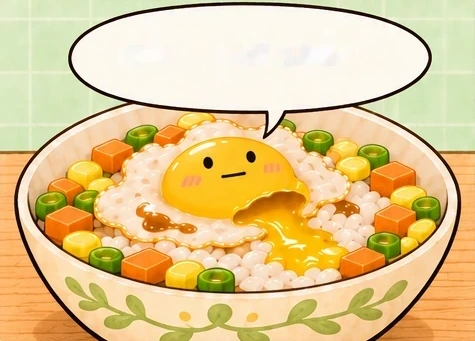
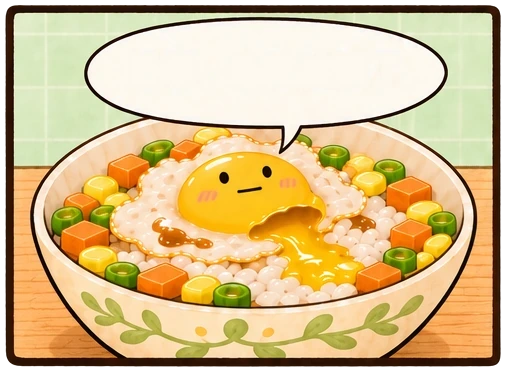
p6e dialogue: new line is a pre-set transparent layer in the same typeface as the other bubbles (no browser font fallback), old text cleared with a flat paper fill (no grey ghosts)

diff --git a/src/app/preview/visual/PanelPerf.tsx b/src/app/preview/visual/PanelPerf.tsx
@@ -318,8 +318,7 @@ export function SaucePanel(props: { p: PanelSlot; pos: Place; dy: number; q: num
 /**
  * 对白分层样板：结尾回答格 p6e "没事，是我拉肚子了。"（只在 punchline 段出现）。
  * 不是打字机：原漫画、气泡轮廓和构图都不动，只把气泡里的旧字清掉（tools/replace_bubble_text.py --clean-only → p6e-clean.webp），
- * 对白换成网页文字，字体、粗细、墨色、字距、位置照原排字（Lantinghei SC Heavy，字高 29 px / 506 px 宽，墨色 rgb(48,19,9)）；
- * 浏览器拿不到 Lantinghei 时回退到苹方 / 冬青黑，用同色描边把笔画加粗到接近原字（不额外下载字体）。
+ * 对白换成透明字层 p6e-text.webp（同一套字形预先排好，不依赖浏览器字体；旧版用网页文字回退苹方加描边，和其它对白字形不一致）。
  * 播放（格子进入并稳定后，按真实时间）：
  *   1. 短暂停顿；
  *   2. 气泡以外的画面轻微降饱和、降对比（底图加 CSS filter）；气泡本身用精确的泡形遮罩（tools/dialogue_layers.py → p6e-bubble.webp，
@@ -330,17 +329,16 @@ export function SaucePanel(props: { p: PanelSlot; pos: Place; dy: number; q: num
  */
 const P3 = "/assets/comic-v3/";
 const P6E_TEXT = "没事，是我拉肚子了。";
-const INK = "48, 19, 9";
 const DIM = { saturate: 0.68, contrast: 0.9, brightness: 1.02 };
 export function DialoguePanel({ p, pos, dy, q, stage, animate }: { p: PanelSlot; pos: Place; dy: number; q: number; stage: Stage; animate: boolean }) {
   const base = useRef<HTMLImageElement>(null);
-  const text = useRef<HTMLDivElement>(null);
+  const text = useRef<HTMLImageElement>(null);
   const tl = useRef<gsap.core.Timeline | null>(null);
   const look = useRef({ dim: 0, ink: 0, show: 0 });
   const apply = () => {
     const { dim, ink, show } = look.current;
     if (base.current) base.current.style.filter = `saturate(${1 - (1 - DIM.saturate) * dim}) contrast(${1 - (1 - DIM.contrast) * dim}) brightness(${1 + (DIM.brightness - 1) * dim})`;
-    if (text.current) { text.current.style.opacity = String(show); text.current.style.color = `rgba(${INK}, ${0.22 + 0.78 * ink})`; }
+    if (text.current) text.current.style.opacity = String(show * (0.22 + 0.78 * ink)); // 字是图层（tools/replace_bubble_text.py --text-layer），淡入就是透明度
   };
   const setLook = (v: { dim: number; ink: number; show: number }) => { look.current = { ...v }; apply(); };
   const reset = () => { tl.current?.kill(); tl.current = null; setLook({ dim: 0, ink: 0, show: 0 }); };
@@ -358,24 +356,16 @@ export function DialoguePanel({ p, pos, dy, q, stage, animate }: { p: PanelSlot;
   if (!animate) return <StaticImg src={p.src!} pos={pos} aspect={p.aspect} dy={dy} />;
   const img = "absolute inset-0 block h-full w-full select-none";
   return (
-    <div className="panel-frame absolute will-change-transform" style={{ ...boxStyle(pos, p.aspect, dy), containerType: "inline-size" }}>
+    <div className="panel-frame absolute will-change-transform" style={{ ...boxStyle(pos, p.aspect, dy) }}>
       {/* eslint-disable-next-line @next/next/no-img-element */}
       <img ref={base} src={`${P3}p6e-clean.webp`} alt="" draggable={false} className={img} />
       {/* 泡本身：同一张图、不加滤镜，只露出泡形遮罩里的部分 */}
       {/* eslint-disable-next-line @next/next/no-img-element */}
       <img src={`${P3}p6e-clean.webp`} alt="" draggable={false} className={img}
         style={{ maskImage: `url(${P3}p6e-bubble.webp)`, WebkitMaskImage: `url(${P3}p6e-bubble.webp)`, maskSize: "100% 100%", WebkitMaskSize: "100% 100%", maskRepeat: "no-repeat", WebkitMaskRepeat: "no-repeat" }} />
-      <div ref={text} aria-label={P6E_TEXT}
-        className="pointer-events-none absolute select-none whitespace-nowrap"
-        style={{
-          left: "53.7%", top: "20.3%", transform: "translate(-50%, -50%)", opacity: 0, color: `rgba(${INK}, 0.22)`,
-          fontFamily: '"Lantinghei SC", "PingFang SC", "Hiragino Sans GB", "Heiti SC", "Noto Sans SC", sans-serif',
-          fontWeight: 800, fontSize: "6.05cqw", lineHeight: 1, letterSpacing: "-0.119cqw",
-          // Lantinghei SC Heavy 不是网页里一定有的字体（系统按需下载的字体浏览器拿不到），回退到苹方 / 冬青黑时用同色描边加粗到接近原来的笔画粗细
-          WebkitTextStroke: "0.05em currentColor", paintOrder: "stroke fill",
-        }}>
-        {P6E_TEXT}
-      </div>
+      {/* 新对白：和图里其它对白同一套字形（Lantinghei SC Heavy 排好的透明层），不依赖浏览器有没有这个字体 */}
+      {/* eslint-disable-next-line @next/next/no-img-element */}
+      <img ref={text} src={`${P3}p6e-text.webp`} alt={P6E_TEXT} draggable={false} className={`${img} pointer-events-none`} style={{ opacity: 0 }} />
     </div>
   );
 }

diff --git a/tools/replace_bubble_text.py b/tools/replace_bubble_text.py
@@ -40,25 +40,18 @@ def font_for(key):
 
 
 def clean_text(rgb):
-    """只在泡内原文字范围里找墨色笔画，外扩 2 px 后 inpaint 成泡内纸色；返回 (干净的 rgb, 原墨色)"""
+    """泡内原文字范围里所有"不是纸色"的像素（含抗锯齿边）外扩后，整片填成泡里的纸色（泡里的纸几乎是平的：标准差 3–5）；返回 (干净的 rgb, 原墨色)。
+    以前用 inpaint + 周围均色，笔画边缘会留下淡灰的影子，网页文字淡入时看起来像脏污。"""
     x0, y0, x1, y1 = OLD
     lum = rgb.astype(float).mean(2)
+    box = lum[y0:y1, x0:x1]
+    ink = np.median(rgb[y0:y1, x0:x1][box < 70], axis=0)
+    paper = np.median(rgb[y0:y1, x0:x1][box > 235], axis=0)
     mask = np.zeros(lum.shape, np.uint8)
-    mask[y0:y1, x0:x1] = (lum[y0:y1, x0:x1] < 150).astype(np.uint8) * 255
-    ink = np.median(rgb[y0:y1, x0:x1][lum[y0:y1, x0:x1] < 70], axis=0)
-    mask = cv2.dilate(mask, np.ones((5, 5), np.uint8))
-    clean = cv2.inpaint(np.ascontiguousarray(rgb[..., ::-1]), mask, 4, cv2.INPAINT_TELEA)[..., ::-1]
-    # inpaint 留下的淡影：笔画外扩带里改用周围纸面的归一化平均色（泡里的纸几乎是平的）
-    band = cv2.dilate(mask, np.ones((7, 7), np.uint8)) > 0
-    known = np.zeros(lum.shape, bool)
-    known[y0 - 8:y1 + 8, x0 - 8:x1 + 8] = True
-    known &= ~band & (rgb.min(2) > 200)
-    k = known.astype(np.float32)
-    w = cv2.GaussianBlur(k, (0, 0), 6)
-    out = clean.astype(np.float32).copy()
-    for c in range(3):
-        num = cv2.GaussianBlur(rgb[..., c].astype(np.float32) * k, (0, 0), 6)
-        out[..., c] = np.where(band & (w > 0.05), num / np.maximum(w, 1e-6), out[..., c])
+    mask[y0:y1, x0:x1] = (box < 232).astype(np.uint8)
+    mask = cv2.dilate(mask, np.ones((7, 7), np.uint8))
+    a = cv2.GaussianBlur(mask.astype(np.float32), (0, 0), 1.2)[..., None]
+    out = rgb.astype(np.float32) * (1 - a) + paper[None, None, :].astype(np.float32) * a
     return np.clip(out, 0, 255).astype(np.uint8), ink
 
 
@@ -69,6 +62,7 @@ def main():
     ap.add_argument("--stroke", type=float, default=0.0)
     ap.add_argument("--height", type=float, default=29.0)
     ap.add_argument("--tracking", type=float, default=-0.6, help="字距调整（p6e 像素，负 = 收紧）")
+    ap.add_argument("--text-layer", action="store_true", help="只输出新字的透明层（墨色 + 字形透明度，和原格同尺寸）→ public/assets/comic-v3/p6e-text.webp；网页用它淡入，字形和图里其它对白同一套字体")
     ap.add_argument("--clean-only", action="store_true", help="只清掉泡内旧字，不排新字")
     args = ap.parse_args()
     im = Image.open(SRC).convert("RGBA")
@@ -103,6 +97,14 @@ def main():
     a = np.asarray(layer.resize((im.width, im.height), Image.LANCZOS)).astype(float) / 255
     out = rgb.astype(float) * (1 - a[..., None]) + ink[None, None, :] * a[..., None]
     rgba[..., :3] = np.clip(out, 0, 255).astype(np.uint8)
+    if args.text_layer:
+        tl = np.zeros(rgba.shape, np.uint8)
+        tl[..., :3] = ink.astype(np.uint8)
+        tl[..., 3] = np.round(a * 255).astype(np.uint8)
+        out = OUT.replace(".webp", "-text.webp")
+        Image.fromarray(tl, "RGBA").save(out, lossless=True, method=6)
+        print("wrote", out)
+        return
     res = Image.fromarray(rgba, "RGBA")
     ys, xs = np.where(a > 0.3)
     print(f"font {FONTS[args.font][1]} {FONTS[args.font][2]} size {size / S:.1f}px  new text x {xs.min()}–{xs.max()}  y {ys.min()}–{ys.max()}  ink {ink.round()}")
